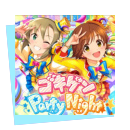
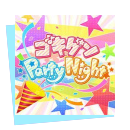
ver.160217
新曲のリソースを追加

新曲を追加
ゴキゲンParty Night! Cute Side. 8 13 17 25 Cu

１曲の画像を変更
ゴキゲンParty Night! 8 14 18 26 All

diff --git a/form.css b/form.css
@@ -239,6 +239,18 @@ td {
 	background: url("bg/54.jpg");
 }
 
+.bg55 {
+	background: url("bg/55.jpg");
+}
+
+.bg56 {
+	background: url("bg/56.jpg");
+}
+
+.bg57 {
+	background: url("bg/57.jpg");
+}
+
 .bg91 {
 	background: url("bg/91.jpg");
 }

diff --git a/process.php b/process.php
@@ -4,14 +4,13 @@ require_once 'twitter/twitteroauth/autoload.php';
 use Abraham\TwitterOAuth\TwitterOAuth;
 
 // 更新時に真っ先に変えなきゃいけないゾーン
-$version = "160214";
-// $rating_all = 2367; // Rating基準値 (アーニャソロまでのレベル合計になってます) (！廃止しました 160109)
-$music_max = 48  *  4; // 全曲数
+$version = "160217";
+$music_max = 49  *  4; // 全曲数
+$music_max_masplus = 0  *  4; // マスプラの曲数
 
-$music_ignore_a = 7  *  4;     //限定楽曲数
-$music_ignore_b = 2  *  4;    //先行解禁曲数
+$music_ignore_a = 8  *  4;     //限定楽曲数
+$music_ignore_b = 1  *  4;    //先行解禁曲数
 
-$music_max_masplus = 0; // マスプラの曲数
 
 // 画像読み込み
 

diff --git a/index.php b/index.php
@@ -735,6 +735,19 @@
 			<td><input class="Master" id="31_4" name="arr[]" type="checkbox"
 				value="26_11"></td>
 		</tr>
+		<tr class="bg55">
+			<th class="limited">
+				<div class="wrapper">ゴキゲンParty Night!<br> Cute Side.</div>
+			</th>
+			<td><input class="Debut" id="55_1" name="arr[]" type="checkbox"
+				value="08_23"></td>
+			<td><input class="Regular" id="55_2" name="arr[]" type="checkbox"
+				value="13_19"></td>
+			<td><input class="Pro" id="55_3" name="arr[]" type="checkbox"
+				value="17_18"></td>
+			<td><input class="Master" id="55_4" name="arr[]" type="checkbox"
+				value="25_8"></td>
+		</tr>
 				<tr class="bg40">
 			<th class="limited">
 				<div class="wrapper">Tulip</div>

diff --git a/README.md b/README.md
@@ -14,3 +14,12 @@
 
 [abraham/twitteroauthを使う](http://qiita.com/kino0104/items/9f9e6f75d58b40663673)
 
+  --------------------------------------------------------------
+
+Copyright © 2015 Slime_hatena All Rights Reserved.
+
+©BANDAI NAMCO Entertainment Inc.
+©BNEI / PROJECT CINDERELLA
+
+画像データをはじめとした著作物は著作者様に帰属します。
+
